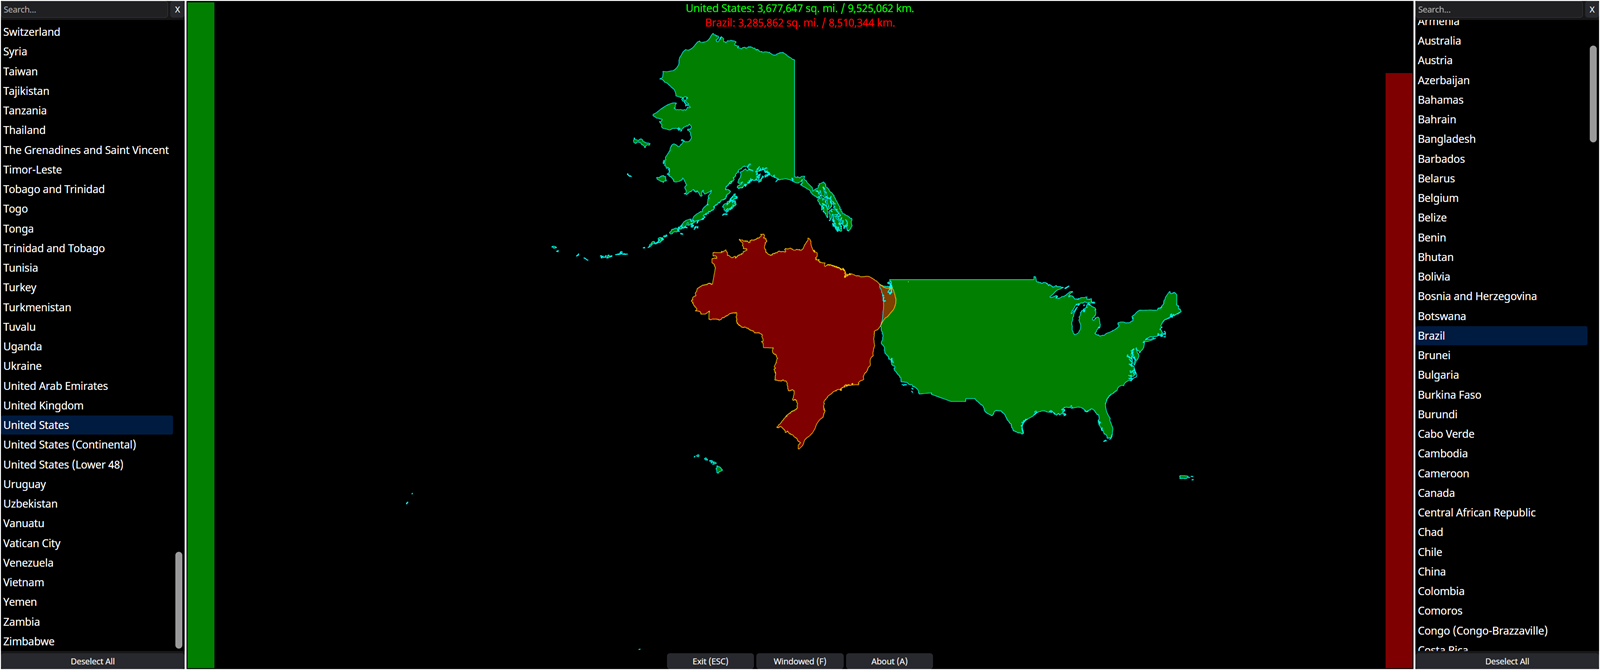
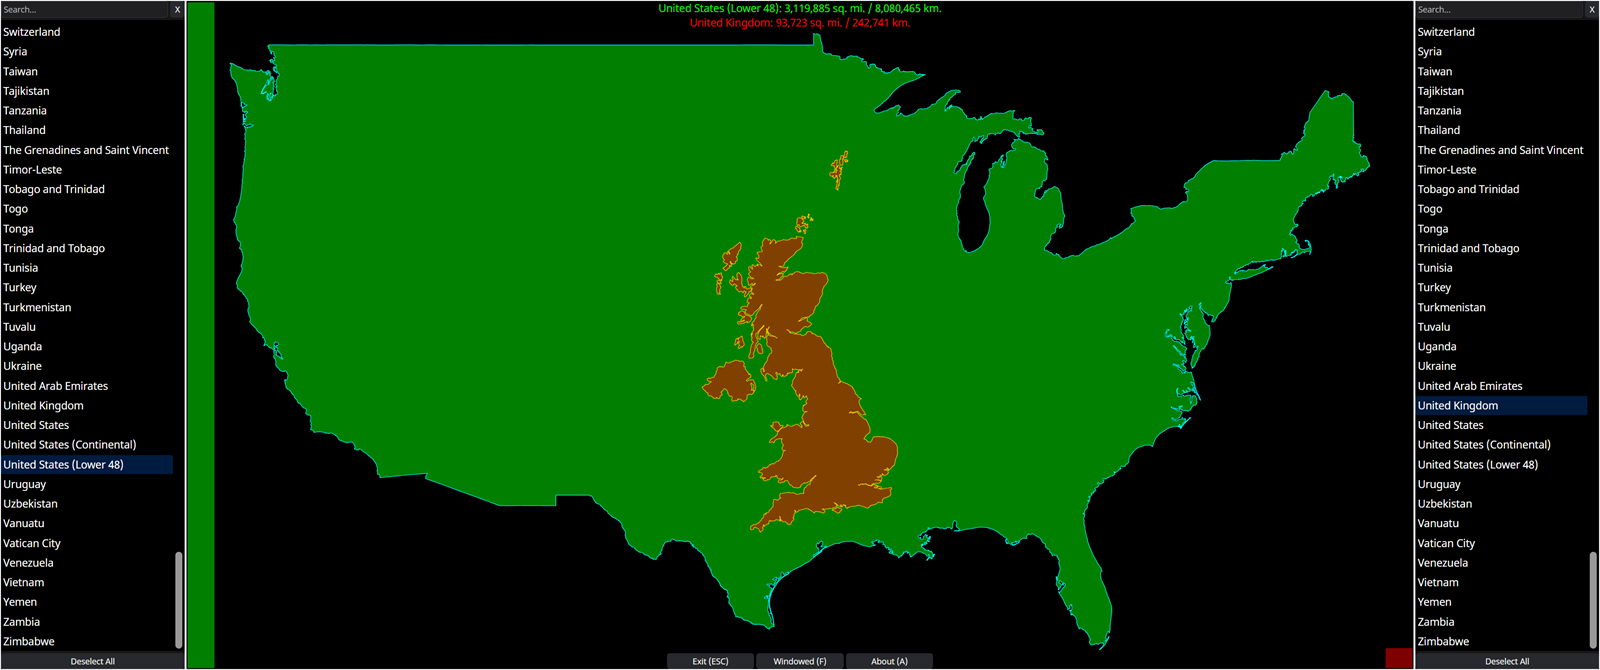
replaced the readme screenshot with the united states (lower 48) compared to the united kingdom

diff --git a/README.md b/README.md
@@ -3,7 +3,7 @@
 
 HowBig is a desktop app for comparing the sizes of countries. Pick one country on each side and it draws both at the same scale, one over the other, so you can see how they stack up. It's written in Go, with a [Wails v3](https://v3.wails.io/) window and a TypeScript frontend.
 
-<img width="1200" height="503" alt="HowBig comparing the United States and Brazil" src="docs/images/howbig.png" />
+<img width="1200" height="503" alt="HowBig comparing the United States (Lower 48) and the United Kingdom" src="docs/images/howbig.png" />
 
 ## Features
 
